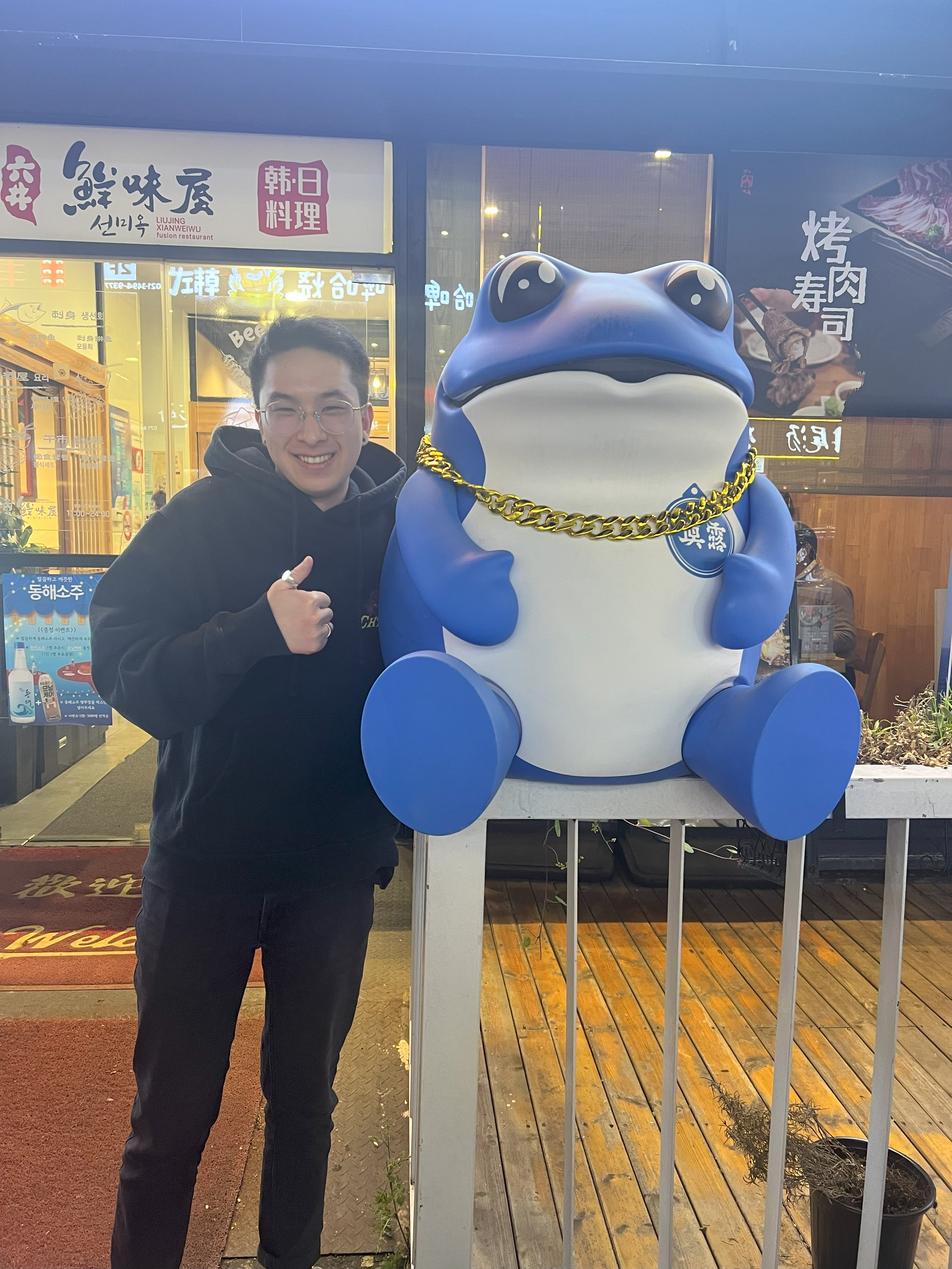
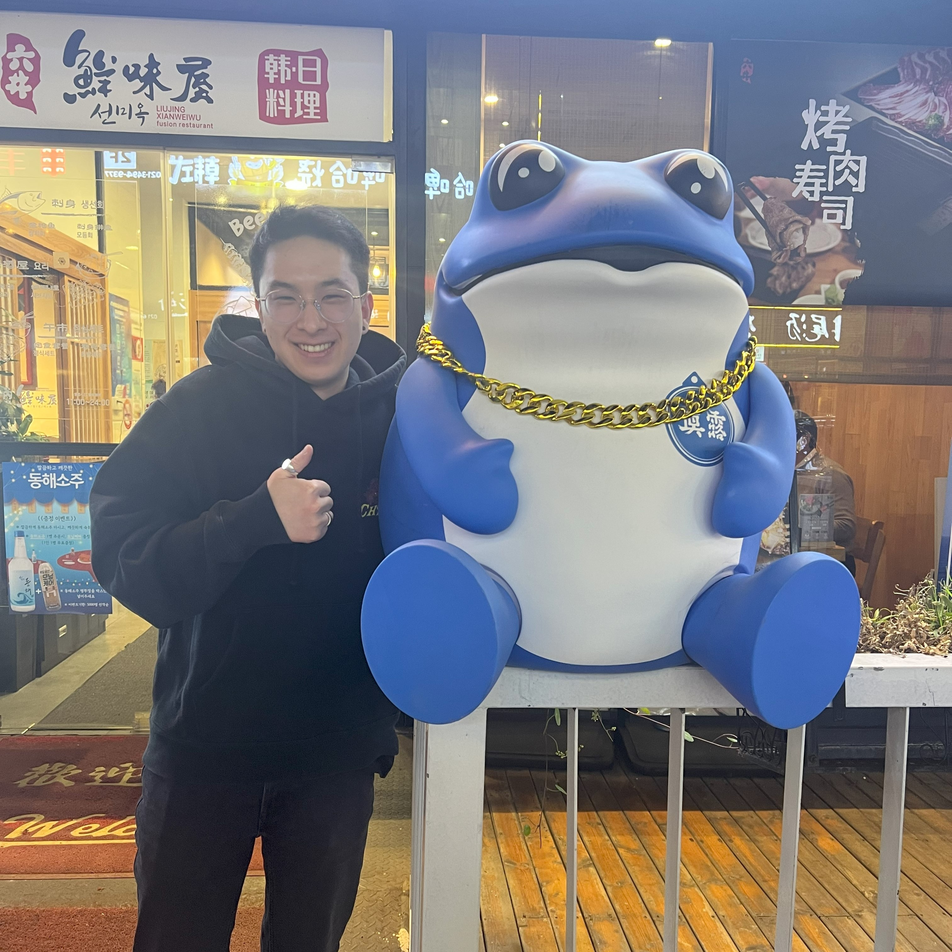
V1.0: image automatically resizes according to window size

diff --git a/src/routes/pages/Root.js b/src/routes/pages/Root.js
@@ -10,8 +10,8 @@ export default function Root() {
                     <div id="header-subtitle" class="header-subtitle">Rancho Cucamonga, California</div>
                 </div>
                 <div id="root-content-container" class="root-content-container">
-                    <div id="root-image-border" class="root-image-border">
-                        <div id="root-image-container" class="root-image-container">
+                    <div id="root-image-container" class="root-image-container">
+                        <div id="root-image" class="root-image">
                             <img src={fun} />
                         </div>
                     </div>

diff --git a/src/index.css b/src/index.css
@@ -110,22 +110,10 @@ html, body, #root, #app-container {
   gap: 8rem;
 }
 
-.root-image-border {
-  width: 21rem;
-  height: 21rem;
-  background-color: #181818;
-  position: relative;
-  overflow: hidden;
-  border-radius: 50%;
-}
-
-.root-image-container {
-  width: 20rem;
-  height: 20rem;
-  /* 2.381% because we're putting a 20rem circle centered in a 21rem circle, so the border is 0.5 in width, which is 0.5/26 = ~0.02381 */
-  top: 2.381%;
-  left: 2.381%;
-  position: relative;
+.root-image {
+  max-width: 21rem;
+  width: auto;
+  height: auto;
   overflow: hidden;
   border-radius: 50%;
 }
